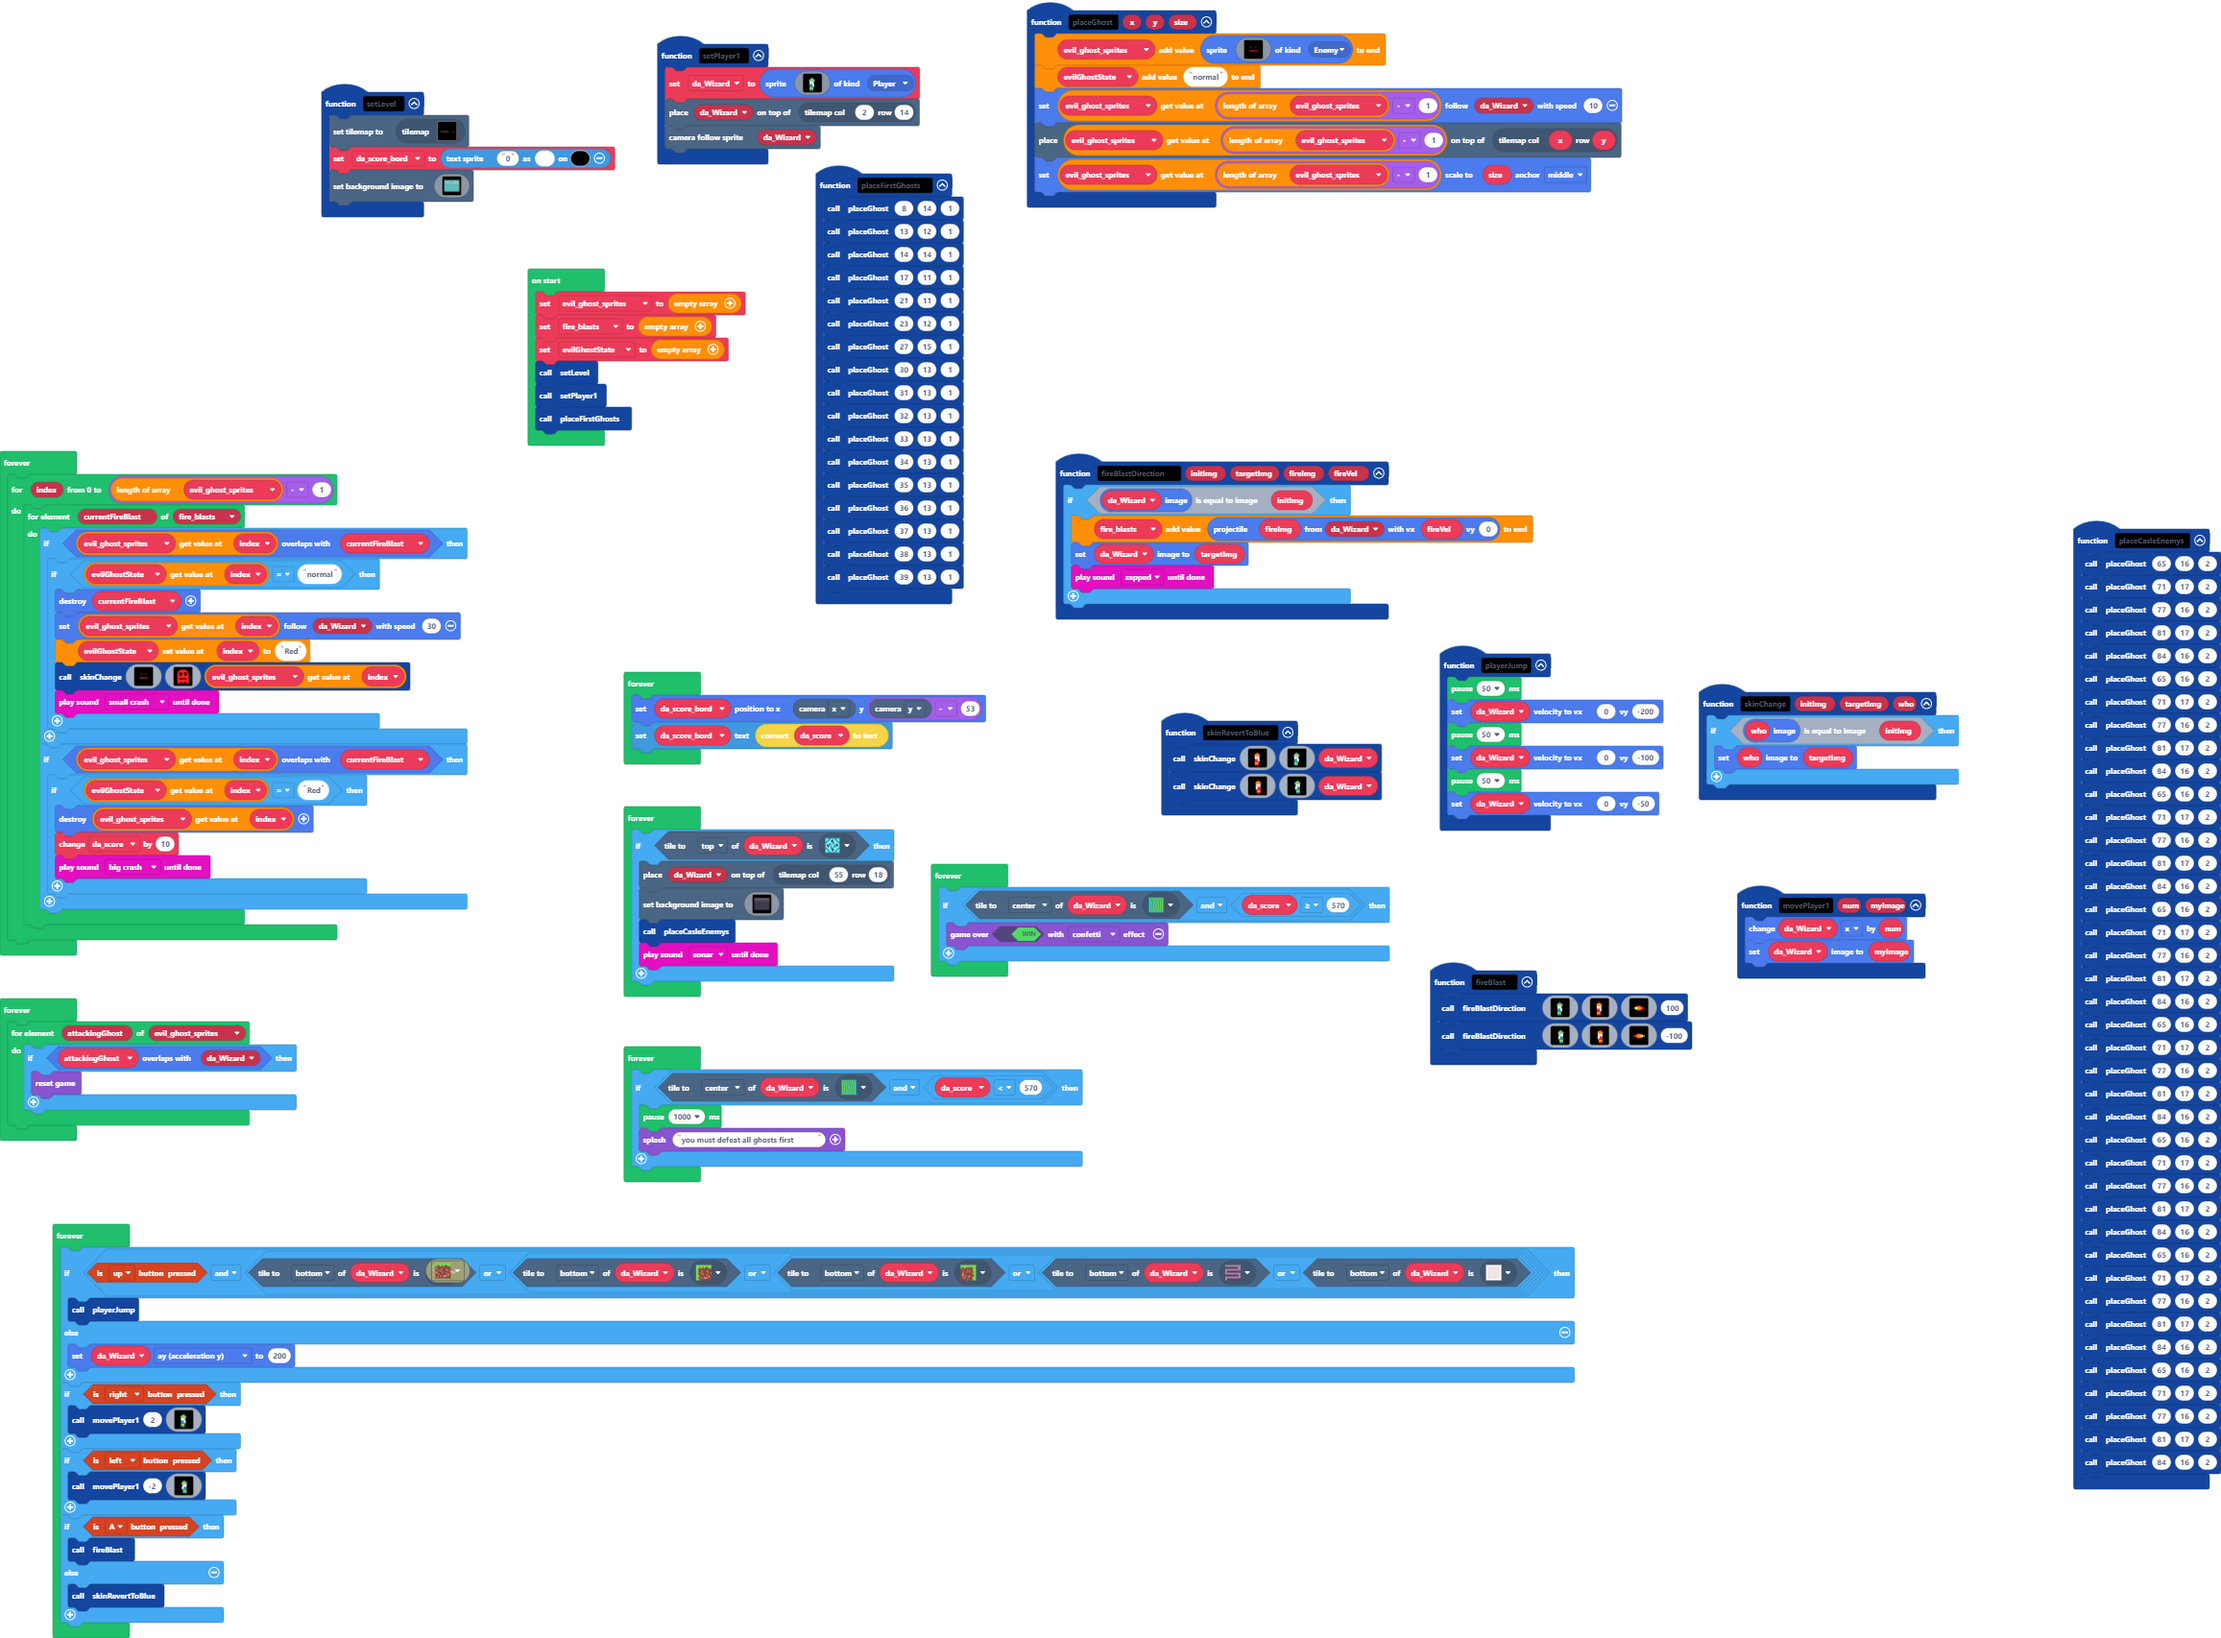
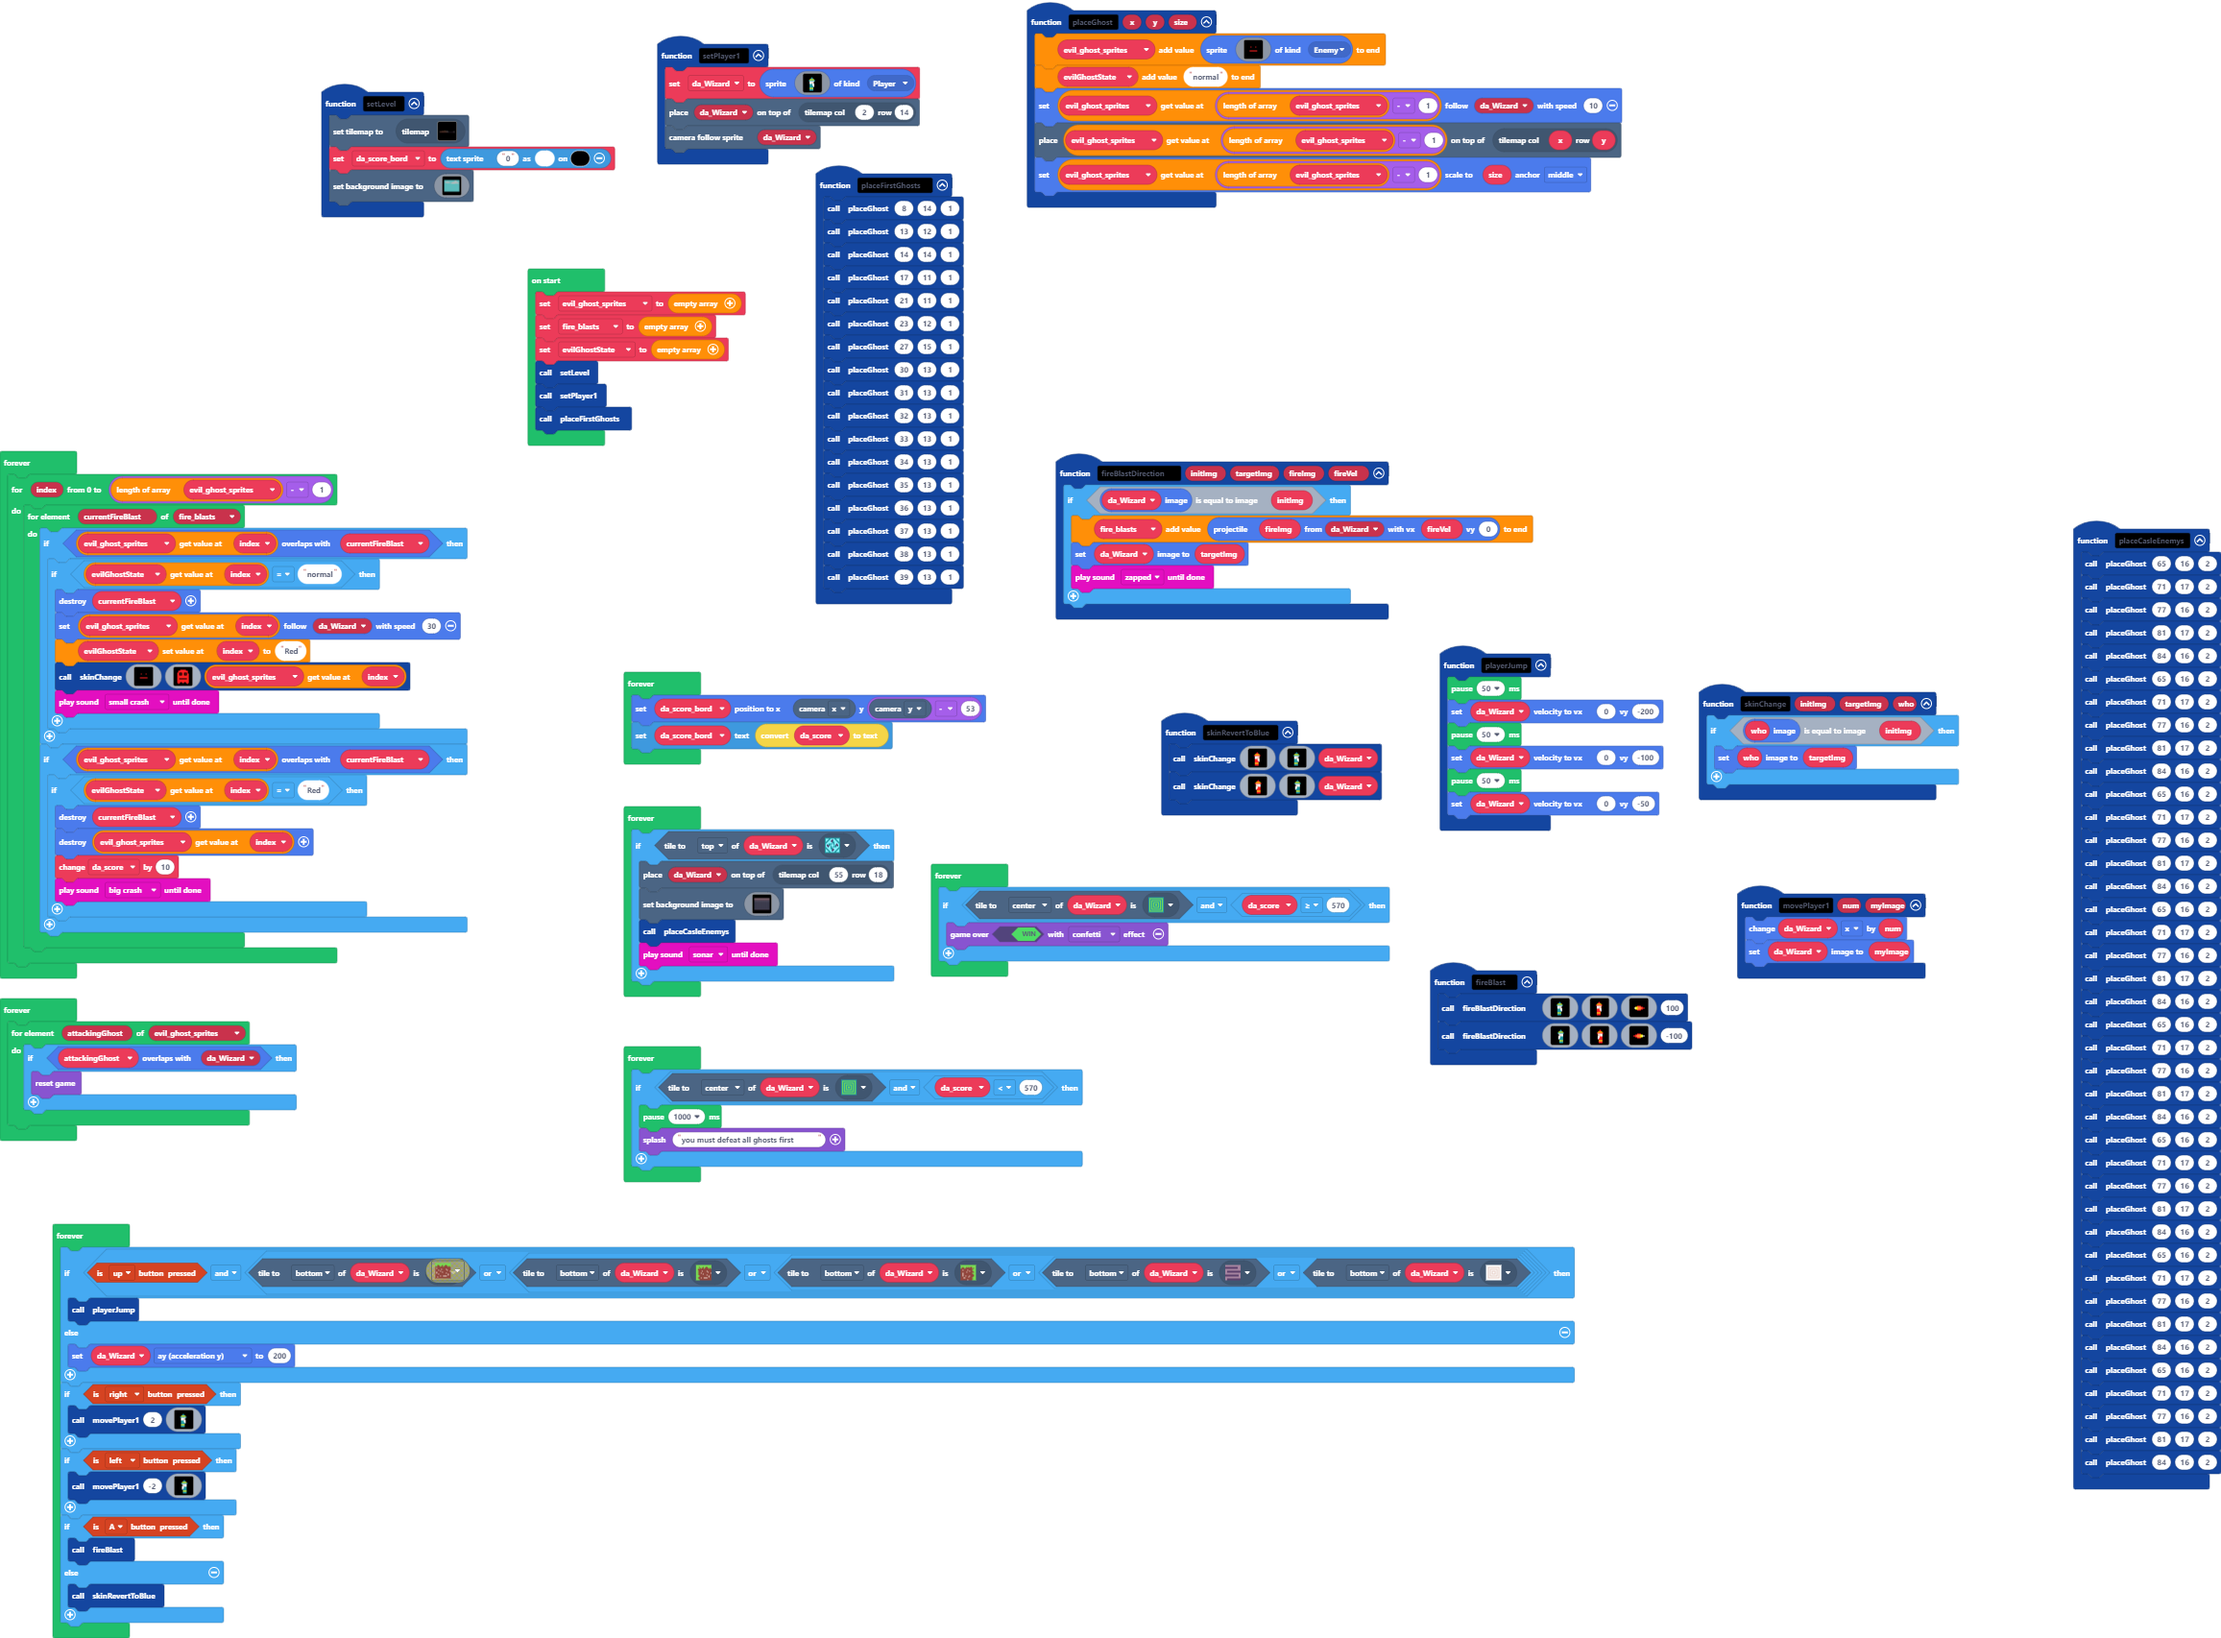
Update pxt.json, main.blocks, main.ts

Changed region(s): [[0.0, 0.466, 0.2179, 0.6213]]

diff --git a/main.ts b/main.ts
@@ -134,6 +134,7 @@ forever(function () {
             }
             if (evil_ghost_sprites[index].overlapsWith(currentFireBlast)) {
                 if (evilGhostState[index] == "Red") {
+                    currentFireBlast.destroy()
                     evil_ghost_sprites[index].destroy()
                     da_score += 10
                     music.bigCrash.playUntilDone()
